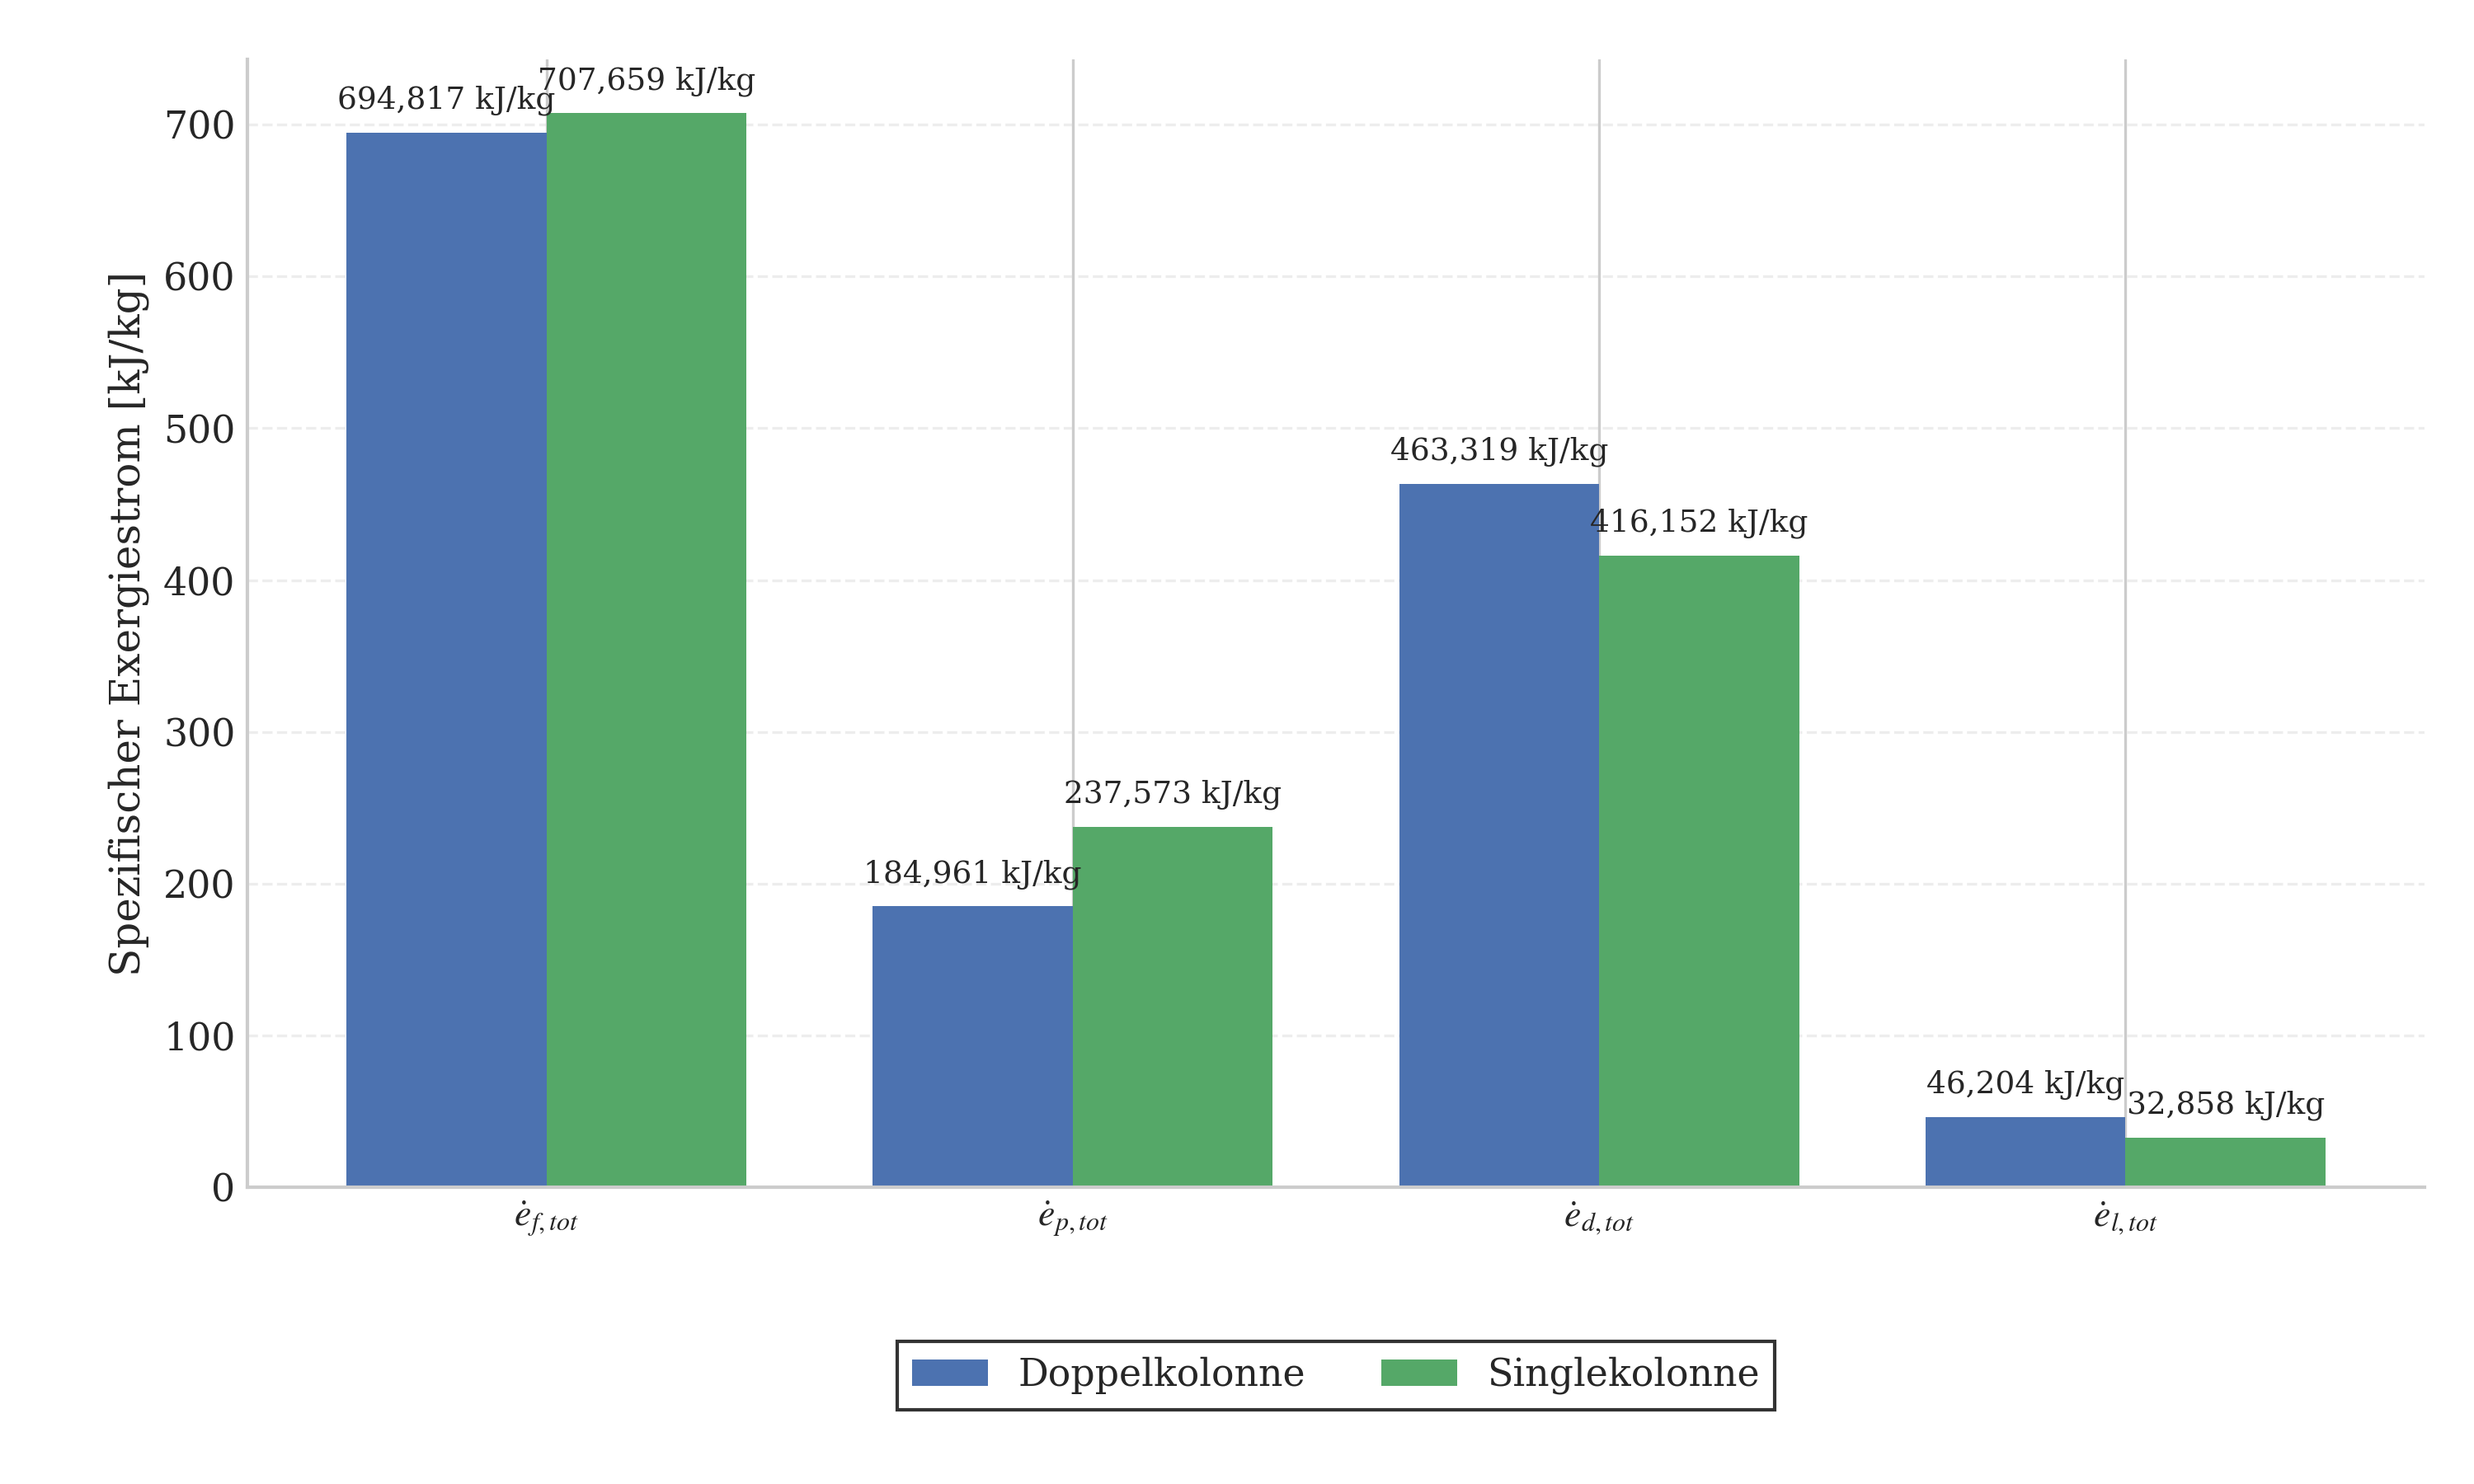
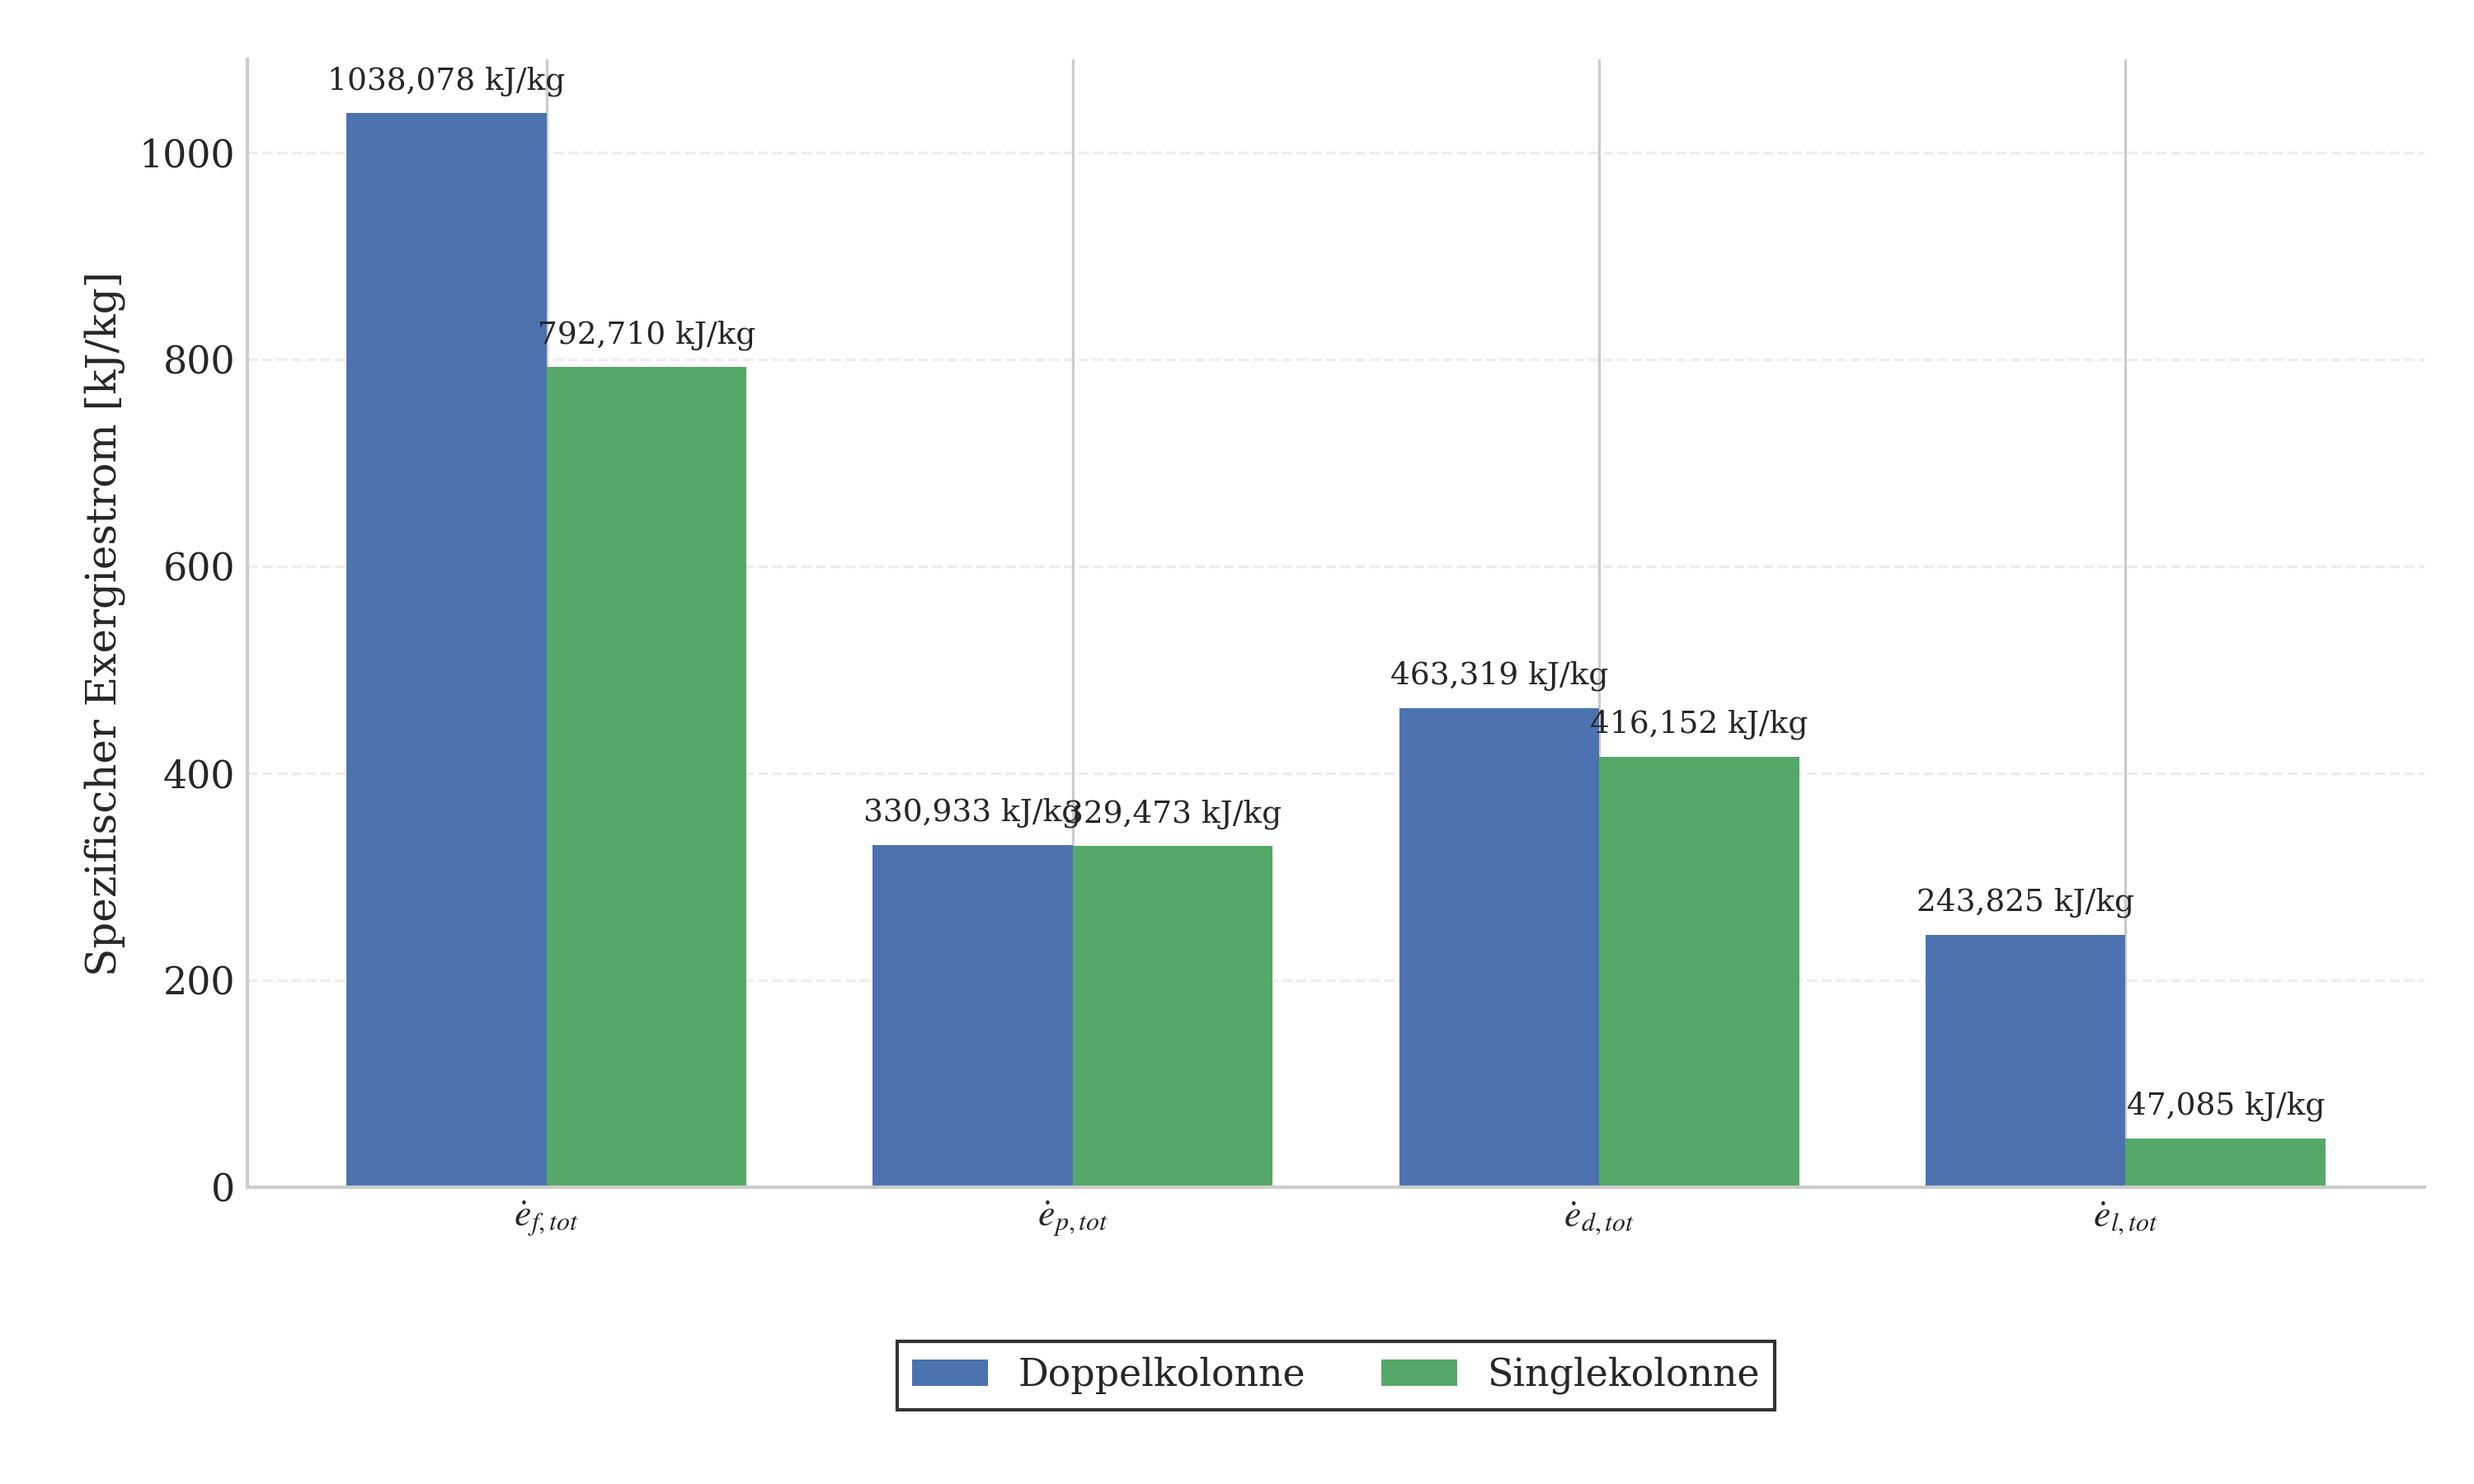
Globale Tabellen

diff --git a/tools/plot_exergy_results.py b/tools/plot_exergy_results.py
@@ -836,7 +836,7 @@ def _format_w_tex(value: float) -> str:
     return s
 
 
-def _build_global_check_tex(raw: dict, model_label: str, product_stream: str, metrics_w: dict | None = None) -> str:
+def _build_global_check_tex(raw: dict, model_label: str, product_stream: str, metrics_w: dict | None = None, computed: dict | None = None) -> str:
     """Build the requested German-formatted global check LaTeX table.
 
     raw keys: E_s1, E_comp, E_prod, W_turb, E_dest, E_loss, E_in_sum
@@ -897,7 +897,21 @@ def _build_global_check_tex(raw: dict, model_label: str, product_stream: str, me
 
     sum_right = _format_w_tex(sum_right_val)
 
+    # diagnostic comments: include parsed raw values and computed-from-tables values
+    debug_lines = []
+    try:
+        parsed_vals = {k: raw.get(k) for k in ("E_s1", "E_comp", "E_prod", "W_turb", "E_dest", "E_loss", "E_in_sum")}
+        debug_lines.append(f"% parsed_raw: {parsed_vals}")
+    except Exception:
+        pass
+    if isinstance(computed, dict):
+        try:
+            debug_lines.append(f"% computed_from_tables: { {k: computed.get(k) for k in ('E_F','E_P','E_D','E_L','E_in_sum','product_stream')} }")
+        except Exception:
+            pass
+
     lines = [
+        *debug_lines,
         r"\begin{longtable}{llr | llr}",
         (f"\\caption{{Exergetische Bilanz des Gesamtsystems der {model_label}}} " + r"\\"),
         r"\hline",
@@ -908,8 +922,6 @@ def _build_global_check_tex(raw: dict, model_label: str, product_stream: str, me
         *rows,
         r"\hline",
         (f"\\textbf{{Gesamtaufwand}} & \\dot{{E}}_{{F,tot}} & \\textbf{{{sum_left}}} & \\textbf{{Summe Aus}} & \\begin{{tabular}}{{@{{}}l@{{}}}}\\dot{{E}}_{{P,tot}} + \\dot{{E}}_{{D,tot}} \\\\ + \\dot{{E}}_{{L,tot}}\\end{{tabular}} & \\textbf{{{sum_right}}} " + r"\\"),
-        r"\hline",
-        (f"\\multicolumn{{3}}{{l}}{{}} & \\textbf{{Abweichung ($\\Delta\\dot{{E}}$)}} &  & \\textbf{{{diff_text} ({pct_text} \\%)}} " + r"\\"),
         r"\hline",
         r"\end{longtable}",
     ]
@@ -1386,6 +1398,18 @@ def main():
     def _coalesce(a, b):
         return a if isinstance(a, (int, float)) else b
 
+    # Overwrite metrics_w entries with computed values when available to keep consistency
+    if isinstance(metrics_double_w, dict):
+        metrics_double_w[r"$\dot{E}_{F,tot}$"] = _coalesce(computed_double.get("E_in_sum"), metrics_double_w.get(r"$\dot{E}_{F,tot}$"))
+        metrics_double_w[r"$\dot{E}_{P,tot}$"] = _coalesce(computed_double.get("E_P"), metrics_double_w.get(r"$\dot{E}_{P,tot}$"))
+        metrics_double_w[r"$\dot{E}_{D,tot}$"] = _coalesce(computed_double.get("E_D"), metrics_double_w.get(r"$\dot{E}_{D,tot}$"))
+        metrics_double_w[r"$\dot{E}_{L,tot}$"] = _coalesce(computed_double.get("E_L"), metrics_double_w.get(r"$\dot{E}_{L,tot}$"))
+    if isinstance(metrics_single_w, dict):
+        metrics_single_w[r"$\dot{E}_{F,tot}$"] = _coalesce(computed_single.get("E_in_sum"), metrics_single_w.get(r"$\dot{E}_{F,tot}$"))
+        metrics_single_w[r"$\dot{E}_{P,tot}$"] = _coalesce(computed_single.get("E_P"), metrics_single_w.get(r"$\dot{E}_{P,tot}$"))
+        metrics_single_w[r"$\dot{E}_{D,tot}$"] = _coalesce(computed_single.get("E_D"), metrics_single_w.get(r"$\dot{E}_{D,tot}$"))
+        metrics_single_w[r"$\dot{E}_{L,tot}$"] = _coalesce(computed_single.get("E_L"), metrics_single_w.get(r"$\dot{E}_{L,tot}$"))
+
     try:
         # build double using computed values where possible
         raw_for_double = raw_double.copy() if isinstance(raw_double, dict) else {}
@@ -1413,7 +1437,7 @@ def main():
             if isinstance(raw_for_double.get("E_s1"), (int, float)) and isinstance(raw_for_double.get("E_comp"), (int, float)):
                 raw_for_double["E_in_sum"] = float(raw_for_double.get("E_s1")) + float(raw_for_double.get("E_comp"))
 
-        new_double_tex = _build_global_check_tex(raw_for_double, "Doppelkolonne", computed_double.get("product_stream"), metrics_double_w)
+        new_double_tex = _build_global_check_tex(raw_for_double, "Doppelkolonne", computed_double.get("product_stream"), metrics_double_w, computed_double)
         GLOBAL_DOUBLE.write_text(new_double_tex, encoding="utf-8")
     except Exception:
         pass
@@ -1441,7 +1465,7 @@ def main():
             if isinstance(raw_for_single.get("E_s1"), (int, float)) and isinstance(raw_for_single.get("E_comp"), (int, float)):
                 raw_for_single["E_in_sum"] = float(raw_for_single.get("E_s1")) + float(raw_for_single.get("E_comp"))
 
-        new_single_tex = _build_global_check_tex(raw_for_single, "Einzelkolonne", computed_single.get("product_stream"), metrics_single_w)
+        new_single_tex = _build_global_check_tex(raw_for_single, "Einzelkolonne", computed_single.get("product_stream"), metrics_single_w, computed_single)
         GLOBAL_SINGLE.write_text(new_single_tex, encoding="utf-8")
     except Exception:
         pass

diff --git a/tools/debug_global.py b/tools/debug_global.py
@@ -1,0 +1,21 @@
+from pathlib import Path
+from tools import plot_exergy_results as p
+
+TABLE_SINGLE = Path(r"Overleaf_LaTeX/tabellen/aspen_luftzerlegung_components_single.tex")
+STREAMS_SINGLE = Path(r"Overleaf_LaTeX/tabellen/aspen_luftzerlegung_streams_single.tex")
+GLOBAL_SINGLE = Path(r"Overleaf_LaTeX/tabellen/aspen_luftzerlegung_global_check_single.tex")
+
+if __name__ == '__main__':
+    df_single = p.parse_component_table(TABLE_SINGLE)
+    streams_single_thermo = p.parse_stream_thermo_data(STREAMS_SINGLE)
+    metrics_single_w, metrics_single_mw, product_stream_single, raw_single = p.parse_global_master_table(GLOBAL_SINGLE)
+    computed_single = p.compute_global_metrics_from_tables(df_single, streams_single_thermo, product_stream_single, 'Einzelkolonne')
+    print('raw_single:', raw_single)
+    print('computed_single:', computed_single)
+    print('metrics_single_w:', metrics_single_w)
+    prod = computed_single.get('E_P') or raw_single.get('E_prod')
+    E_dest = computed_single.get('E_D') or raw_single.get('E_dest')
+    E_loss = computed_single.get('E_L') or raw_single.get('E_loss')
+    print('prod, dest, loss:', prod, E_dest, E_loss)
+    if None not in (prod, E_dest, E_loss):
+        print('sum_right calc:', prod + E_dest + E_loss)

diff --git a/Overleaf_LaTeX/tabellen/aspen_luftzerlegung_global_check.tex b/Overleaf_LaTeX/tabellen/aspen_luftzerlegung_global_check.tex
@@ -1,3 +1,5 @@
+% parsed_raw: {'E_s1': 186236.0, 'E_comp': 10978085.0, 'E_prod': 5265146.0983, 'W_turb': None, 'E_dest': 7371410.279999999, 'E_loss': 3879258.4941, 'E_in_sum': 16515814.872399999}
+% computed_from_tables: {'E_F': 16515814.872399999, 'E_P': 5265146.0983, 'E_D': 7371410.279999999, 'E_L': 3879258.4941, 'E_in_sum': 16515814.872399999, 'product_stream': 'S32'}
 \begin{longtable}{llr | llr}
 \caption{Exergetische Bilanz des Gesamtsystems der Doppelkolonne} \\
 \hline
@@ -11,7 +13,5 @@ Verdichterleistung & $\dot{W}_1 + \dot{W}_2$ & 10.978.085 & Turbinenleistung & $
  &  &  & Exergieverlust & $\dot{E}_{L,tot}$ & 3.879.258 \\
 \hline
 \textbf{Gesamtaufwand} & \dot{E}_{F,tot} & \textbf{16.515.815} & \textbf{Summe Aus} & \begin{tabular}{@{}l@{}}\dot{E}_{P,tot} + \dot{E}_{D,tot} \\ + \dot{E}_{L,tot}\end{tabular} & \textbf{16.515.815} \\
-\hline
-\multicolumn{3}{l}{} & \textbf{Abweichung ($\Delta\dot{E}$)} &  & \textbf{0 (0,00 \%)} \\
 \hline
 \end{longtable}

diff --git a/Overleaf_LaTeX/tabellen/aspen_luftzerlegung_global_check_single.tex b/Overleaf_LaTeX/tabellen/aspen_luftzerlegung_global_check_single.tex
@@ -1,3 +1,5 @@
+% parsed_raw: {'E_s1': 55037.0, 'E_comp': 3235562.0, 'E_prod': 1532049.4965000001, 'W_turb': None, 'E_dest': 1935107.4900000002, 'E_loss': 218942.9926, 'E_in_sum': 3686099.9791}
+% computed_from_tables: {'E_F': 3686099.9791, 'E_P': 1532049.4965000001, 'E_D': 1935107.4900000002, 'E_L': 218942.9926, 'E_in_sum': 3686099.9791, 'product_stream': 'S24'}
 \begin{longtable}{llr | llr}
 \caption{Exergetische Bilanz des Gesamtsystems der Einzelkolonne} \\
 \hline
@@ -11,7 +13,5 @@ Verdichterleistung & $\dot{W}_1 + \dot{W}_2$ & 3.235.562 & Turbinenleistung & $\
  &  &  & Exergieverlust & $\dot{E}_{L,tot}$ & 218.943 \\
 \hline
 \textbf{Gesamtaufwand} & \dot{E}_{F,tot} & \textbf{3.686.100} & \textbf{Summe Aus} & \begin{tabular}{@{}l@{}}\dot{E}_{P,tot} + \dot{E}_{D,tot} \\ + \dot{E}_{L,tot}\end{tabular} & \textbf{3.686.100} \\
-\hline
-\multicolumn{3}{l}{} & \textbf{Abweichung ($\Delta\dot{E}$)} &  & \textbf{0 (0,00 \%)} \\
 \hline
 \end{longtable}
